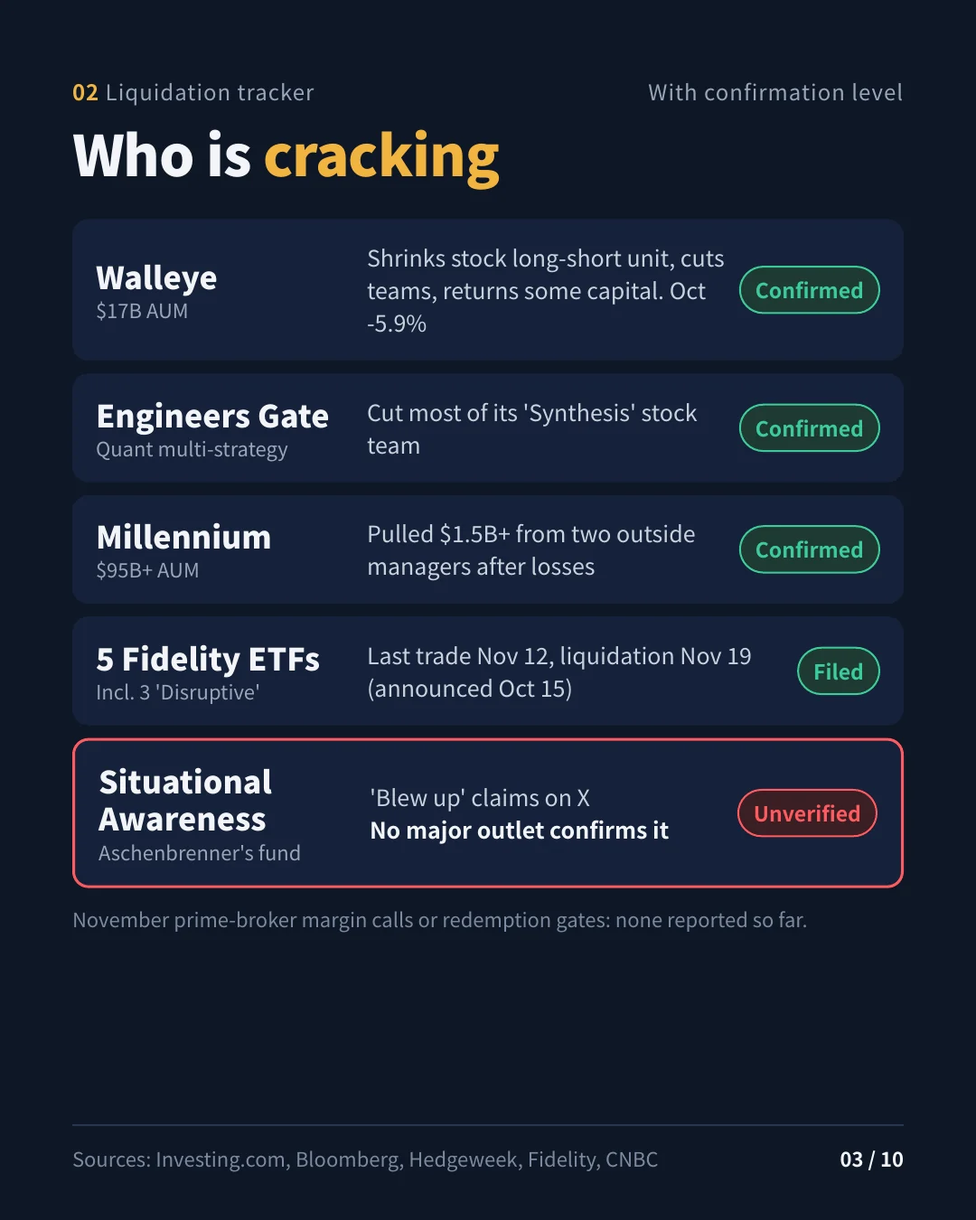
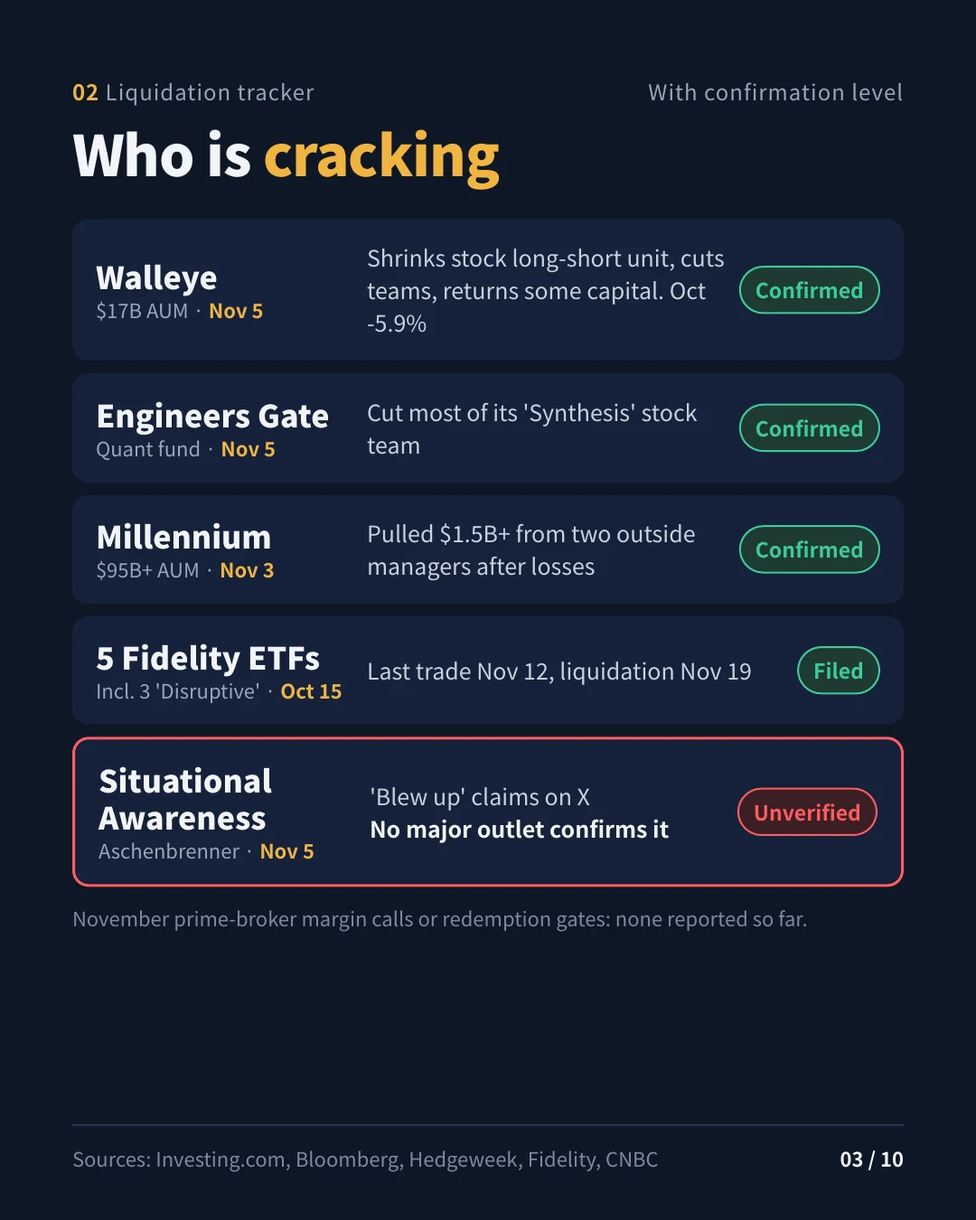
fix(research): show report dates on the liquidation-tracker card
Claude-Session: https://claude.ai/code/session_01Pv4bTrn58GB7PrtnbgnEHj

diff --git a/_source/page.html b/_source/page.html
@@ -1095,6 +1095,7 @@ const SOFTWARE=[{id:'mocapture',no:1,status:'live',maker:{ko:'무광소프트',e
  links:{virustotal:'https://www.virustotal.com/gui/file/f5212e4a6807eacafa44dd914d573b464fb4ffa0d162f67f372c214387ecc56d',changelog:'https://mugwangsoft.com/changelog/',privacy:'https://mugwangsoft.com/privacy/',enterprise:'https://mugwangsoft.com/enterprise/',feedback:'https://mugwangsoft.com/feedback/',contact:'hello@mugwangsoft.com'},
  media:'https://mugwangsoft.com/media/',shots:['tray','masking','editor','window','scroll','textcopy'],built_with:'Claude'}];
 const CHANGELOG=[
+ {"d":"2026-11-06","h":"HEAD","m":{"en":"AI Deleveraging Check: the liquidation-tracker card now shows the date of each report (Korean and English)","ko":"AI 디레버리징 점검: 청산 트래커 카드에 건별 보도 날짜 표기(한국어·영어)","es":"Revisión del desapalancamiento de la IA: la tarjeta de liquidaciones ahora muestra la fecha de cada noticia (coreano e inglés)","ja":"AIデレバレッジ点検:清算トラッカーのカードに各報道の日付を表示(韓国語・英語)"}},
  {"d":"2026-11-06","h":"34de9da","m":{"en":"Data truth on TODAY: every number shows its as-of date (US close, report day, daily estimate), LIVE turns into DELAYED when newer market data exists, and VIX now comes from the fresher of the two bot runs instead of the older crisis report; the Buffett x VIX check now refreshes after every US close","ko":"TODAY 데이터 정합성: 모든 숫자에 기준일(미국 종가·보고일·일별 추정) 표시, 더 새 시장 데이터가 있으면 LIVE 대신 '지연' 표시, VIX는 오래된 위기 보고가 아니라 두 봇 중 더 최신 값을 사용, 버핏지수×VIX는 미국 장 마감마다 갱신","es":"Datos fieles en HOY: cada cifra muestra su fecha (cierre de EE. UU., día del informe, estimación diaria), EN VIVO pasa a RETRASO cuando existen datos más nuevos, y el VIX ahora sale de la ejecución más reciente de los dos bots en vez del informe de crisis más antiguo; Buffett x VIX se actualiza tras cada cierre de EE. UU.","ja":"TODAYのデータ整合性:すべての数字に基準日(米国終値・レポート日・日次推定)を表示、より新しい市場データがあればLIVEの代わりに「遅延」、VIXは古い危機レポートではなく2つのボットのうち新しい方を使用、バフェット指数×VIXは米国の取引終了ごとに更新"}},
  {"d":"2026-11-06","h":"649b28d","m":{"en":"Faster first screen: the last live data you saw shows instantly on your next visit while fresh data loads behind it, TODAY shows loading shimmers instead of sample numbers, the hidden developer view no longer rebuilds on every update, page sizing reads all pages in one pass, deep-page feeds load when the browser is idle, and fonts stop blocking the first paint","ko":"첫 화면 속도 개선: 다시 방문하면 마지막으로 본 실시간 데이터가 즉시 뜨고 새 데이터는 뒤에서 교체, TODAY는 예시 숫자 대신 로딩 표시, 숨어 있는 개발자 화면은 업데이트마다 다시 그리지 않음, 페이지 크기 계산을 한 번에, 안쪽 페이지 데이터는 여유 있을 때 로딩, 글꼴이 첫 화면을 막지 않음","es":"Primera pantalla más rápida: en tu próxima visita los últimos datos en vivo aparecen al instante mientras los nuevos cargan detrás, HOY muestra indicadores de carga en vez de cifras de muestra, la vista de desarrollador oculta ya no se reconstruye con cada actualización, el tamaño de las páginas se calcula en una sola pasada, los datos de páginas profundas cargan cuando el navegador está libre y las fuentes ya no bloquean el primer pintado","ja":"最初の画面を高速化:再訪時は最後に見たライブデータが即表示され、新しいデータは裏で差し替え。TODAYはサンプル値の代わりに読み込み表示、隠れた開発者画面は更新のたびに再描画しない、ページサイズ計算を一度に、奥のページのデータは余裕のある時に読み込み、フォントが最初の描画を妨げない"}},
  {"d":"2026-11-06","h":"71761d1","m":{"en":"New research: AI Deleveraging Check (chips -12.25% on Nov 5) with a liquidation tracker, leveraged-ETF mechanics, Anthropic S-1 breakdown and 10 cards in Korean and English; every credit across the site is now just stayhungryasi.com","ko":"새 리서치: AI 디레버리징 점검(11/5 반도체 -12.25%). 청산 트래커, 레버리지 ETF 매도 구조, 앤트로픽 S-1 손익 분해, 카드뉴스 한국어·영어 10장. 사이트 전체 출처 표기를 stayhungryasi.com 하나로 통일","es":"Nueva investigación: revisión del desapalancamiento de la IA (chips -12.25% el 5 de noviembre) con seguimiento de liquidaciones, mecánica de ETF apalancados, desglose del S-1 de Anthropic y 10 tarjetas en coreano e inglés; todos los créditos del sitio ahora dicen solo stayhungryasi.com","ja":"新リサーチ:AIデレバレッジ点検(11/5半導体-12.25%)。清算トラッカー、レバレッジETFの売りの仕組み、アンソロピックS-1の損益分解、韓国語・英語のカード10枚。サイト全体のクレジット表記をstayhungryasi.comに統一"}},

diff --git a/_source/template.html b/_source/template.html
@@ -1095,6 +1095,7 @@ const SOFTWARE=[{id:'mocapture',no:1,status:'live',maker:{ko:'무광소프트',e
  links:{virustotal:'https://www.virustotal.com/gui/file/f5212e4a6807eacafa44dd914d573b464fb4ffa0d162f67f372c214387ecc56d',changelog:'https://mugwangsoft.com/changelog/',privacy:'https://mugwangsoft.com/privacy/',enterprise:'https://mugwangsoft.com/enterprise/',feedback:'https://mugwangsoft.com/feedback/',contact:'hello@mugwangsoft.com'},
  media:'https://mugwangsoft.com/media/',shots:['tray','masking','editor','window','scroll','textcopy'],built_with:'Claude'}];
 const CHANGELOG=[
+ {"d":"2026-11-06","h":"HEAD","m":{"en":"AI Deleveraging Check: the liquidation-tracker card now shows the date of each report (Korean and English)","ko":"AI 디레버리징 점검: 청산 트래커 카드에 건별 보도 날짜 표기(한국어·영어)","es":"Revisión del desapalancamiento de la IA: la tarjeta de liquidaciones ahora muestra la fecha de cada noticia (coreano e inglés)","ja":"AIデレバレッジ点検:清算トラッカーのカードに各報道の日付を表示(韓国語・英語)"}},
  {"d":"2026-11-06","h":"34de9da","m":{"en":"Data truth on TODAY: every number shows its as-of date (US close, report day, daily estimate), LIVE turns into DELAYED when newer market data exists, and VIX now comes from the fresher of the two bot runs instead of the older crisis report; the Buffett x VIX check now refreshes after every US close","ko":"TODAY 데이터 정합성: 모든 숫자에 기준일(미국 종가·보고일·일별 추정) 표시, 더 새 시장 데이터가 있으면 LIVE 대신 '지연' 표시, VIX는 오래된 위기 보고가 아니라 두 봇 중 더 최신 값을 사용, 버핏지수×VIX는 미국 장 마감마다 갱신","es":"Datos fieles en HOY: cada cifra muestra su fecha (cierre de EE. UU., día del informe, estimación diaria), EN VIVO pasa a RETRASO cuando existen datos más nuevos, y el VIX ahora sale de la ejecución más reciente de los dos bots en vez del informe de crisis más antiguo; Buffett x VIX se actualiza tras cada cierre de EE. UU.","ja":"TODAYのデータ整合性:すべての数字に基準日(米国終値・レポート日・日次推定)を表示、より新しい市場データがあればLIVEの代わりに「遅延」、VIXは古い危機レポートではなく2つのボットのうち新しい方を使用、バフェット指数×VIXは米国の取引終了ごとに更新"}},
  {"d":"2026-11-06","h":"649b28d","m":{"en":"Faster first screen: the last live data you saw shows instantly on your next visit while fresh data loads behind it, TODAY shows loading shimmers instead of sample numbers, the hidden developer view no longer rebuilds on every update, page sizing reads all pages in one pass, deep-page feeds load when the browser is idle, and fonts stop blocking the first paint","ko":"첫 화면 속도 개선: 다시 방문하면 마지막으로 본 실시간 데이터가 즉시 뜨고 새 데이터는 뒤에서 교체, TODAY는 예시 숫자 대신 로딩 표시, 숨어 있는 개발자 화면은 업데이트마다 다시 그리지 않음, 페이지 크기 계산을 한 번에, 안쪽 페이지 데이터는 여유 있을 때 로딩, 글꼴이 첫 화면을 막지 않음","es":"Primera pantalla más rápida: en tu próxima visita los últimos datos en vivo aparecen al instante mientras los nuevos cargan detrás, HOY muestra indicadores de carga en vez de cifras de muestra, la vista de desarrollador oculta ya no se reconstruye con cada actualización, el tamaño de las páginas se calcula en una sola pasada, los datos de páginas profundas cargan cuando el navegador está libre y las fuentes ya no bloquean el primer pintado","ja":"最初の画面を高速化:再訪時は最後に見たライブデータが即表示され、新しいデータは裏で差し替え。TODAYはサンプル値の代わりに読み込み表示、隠れた開発者画面は更新のたびに再描画しない、ページサイズ計算を一度に、奥のページのデータは余裕のある時に読み込み、フォントが最初の描画を妨げない"}},
  {"d":"2026-11-06","h":"71761d1","m":{"en":"New research: AI Deleveraging Check (chips -12.25% on Nov 5) with a liquidation tracker, leveraged-ETF mechanics, Anthropic S-1 breakdown and 10 cards in Korean and English; every credit across the site is now just stayhungryasi.com","ko":"새 리서치: AI 디레버리징 점검(11/5 반도체 -12.25%). 청산 트래커, 레버리지 ETF 매도 구조, 앤트로픽 S-1 손익 분해, 카드뉴스 한국어·영어 10장. 사이트 전체 출처 표기를 stayhungryasi.com 하나로 통일","es":"Nueva investigación: revisión del desapalancamiento de la IA (chips -12.25% el 5 de noviembre) con seguimiento de liquidaciones, mecánica de ETF apalancados, desglose del S-1 de Anthropic y 10 tarjetas en coreano e inglés; todos los créditos del sitio ahora dicen solo stayhungryasi.com","ja":"新リサーチ:AIデレバレッジ点検(11/5半導体-12.25%)。清算トラッカー、レバレッジETFの売りの仕組み、アンソロピックS-1の損益分解、韓国語・英語のカード10枚。サイト全体のクレジット表記をstayhungryasi.comに統一"}},

diff --git a/en/index.html b/en/index.html
@@ -1117,6 +1117,7 @@ const SOFTWARE=[{id:'mocapture',no:1,status:'live',maker:{ko:'무광소프트',e
  links:{virustotal:'https://www.virustotal.com/gui/file/f5212e4a6807eacafa44dd914d573b464fb4ffa0d162f67f372c214387ecc56d',changelog:'https://mugwangsoft.com/changelog/',privacy:'https://mugwangsoft.com/privacy/',enterprise:'https://mugwangsoft.com/enterprise/',feedback:'https://mugwangsoft.com/feedback/',contact:'hello@mugwangsoft.com'},
  media:'https://mugwangsoft.com/media/',shots:['tray','masking','editor','window','scroll','textcopy'],built_with:'Claude'}];
 const CHANGELOG=[
+ {"d":"2026-11-06","h":"HEAD","m":{"en":"AI Deleveraging Check: the liquidation-tracker card now shows the date of each report (Korean and English)","ko":"AI 디레버리징 점검: 청산 트래커 카드에 건별 보도 날짜 표기(한국어·영어)","es":"Revisión del desapalancamiento de la IA: la tarjeta de liquidaciones ahora muestra la fecha de cada noticia (coreano e inglés)","ja":"AIデレバレッジ点検:清算トラッカーのカードに各報道の日付を表示(韓国語・英語)"}},
  {"d":"2026-11-06","h":"34de9da","m":{"en":"Data truth on TODAY: every number shows its as-of date (US close, report day, daily estimate), LIVE turns into DELAYED when newer market data exists, and VIX now comes from the fresher of the two bot runs instead of the older crisis report; the Buffett x VIX check now refreshes after every US close","ko":"TODAY 데이터 정합성: 모든 숫자에 기준일(미국 종가·보고일·일별 추정) 표시, 더 새 시장 데이터가 있으면 LIVE 대신 '지연' 표시, VIX는 오래된 위기 보고가 아니라 두 봇 중 더 최신 값을 사용, 버핏지수×VIX는 미국 장 마감마다 갱신","es":"Datos fieles en HOY: cada cifra muestra su fecha (cierre de EE. UU., día del informe, estimación diaria), EN VIVO pasa a RETRASO cuando existen datos más nuevos, y el VIX ahora sale de la ejecución más reciente de los dos bots en vez del informe de crisis más antiguo; Buffett x VIX se actualiza tras cada cierre de EE. UU.","ja":"TODAYのデータ整合性:すべての数字に基準日(米国終値・レポート日・日次推定)を表示、より新しい市場データがあればLIVEの代わりに「遅延」、VIXは古い危機レポートではなく2つのボットのうち新しい方を使用、バフェット指数×VIXは米国の取引終了ごとに更新"}},
  {"d":"2026-11-06","h":"649b28d","m":{"en":"Faster first screen: the last live data you saw shows instantly on your next visit while fresh data loads behind it, TODAY shows loading shimmers instead of sample numbers, the hidden developer view no longer rebuilds on every update, page sizing reads all pages in one pass, deep-page feeds load when the browser is idle, and fonts stop blocking the first paint","ko":"첫 화면 속도 개선: 다시 방문하면 마지막으로 본 실시간 데이터가 즉시 뜨고 새 데이터는 뒤에서 교체, TODAY는 예시 숫자 대신 로딩 표시, 숨어 있는 개발자 화면은 업데이트마다 다시 그리지 않음, 페이지 크기 계산을 한 번에, 안쪽 페이지 데이터는 여유 있을 때 로딩, 글꼴이 첫 화면을 막지 않음","es":"Primera pantalla más rápida: en tu próxima visita los últimos datos en vivo aparecen al instante mientras los nuevos cargan detrás, HOY muestra indicadores de carga en vez de cifras de muestra, la vista de desarrollador oculta ya no se reconstruye con cada actualización, el tamaño de las páginas se calcula en una sola pasada, los datos de páginas profundas cargan cuando el navegador está libre y las fuentes ya no bloquean el primer pintado","ja":"最初の画面を高速化:再訪時は最後に見たライブデータが即表示され、新しいデータは裏で差し替え。TODAYはサンプル値の代わりに読み込み表示、隠れた開発者画面は更新のたびに再描画しない、ページサイズ計算を一度に、奥のページのデータは余裕のある時に読み込み、フォントが最初の描画を妨げない"}},
  {"d":"2026-11-06","h":"71761d1","m":{"en":"New research: AI Deleveraging Check (chips -12.25% on Nov 5) with a liquidation tracker, leveraged-ETF mechanics, Anthropic S-1 breakdown and 10 cards in Korean and English; every credit across the site is now just stayhungryasi.com","ko":"새 리서치: AI 디레버리징 점검(11/5 반도체 -12.25%). 청산 트래커, 레버리지 ETF 매도 구조, 앤트로픽 S-1 손익 분해, 카드뉴스 한국어·영어 10장. 사이트 전체 출처 표기를 stayhungryasi.com 하나로 통일","es":"Nueva investigación: revisión del desapalancamiento de la IA (chips -12.25% el 5 de noviembre) con seguimiento de liquidaciones, mecánica de ETF apalancados, desglose del S-1 de Anthropic y 10 tarjetas en coreano e inglés; todos los créditos del sitio ahora dicen solo stayhungryasi.com","ja":"新リサーチ:AIデレバレッジ点検(11/5半導体-12.25%)。清算トラッカー、レバレッジETFの売りの仕組み、アンソロピックS-1の損益分解、韓国語・英語のカード10枚。サイト全体のクレジット表記をstayhungryasi.comに統一"}},

diff --git a/es/index.html b/es/index.html
@@ -1117,6 +1117,7 @@ const SOFTWARE=[{id:'mocapture',no:1,status:'live',maker:{ko:'무광소프트',e
  links:{virustotal:'https://www.virustotal.com/gui/file/f5212e4a6807eacafa44dd914d573b464fb4ffa0d162f67f372c214387ecc56d',changelog:'https://mugwangsoft.com/changelog/',privacy:'https://mugwangsoft.com/privacy/',enterprise:'https://mugwangsoft.com/enterprise/',feedback:'https://mugwangsoft.com/feedback/',contact:'hello@mugwangsoft.com'},
  media:'https://mugwangsoft.com/media/',shots:['tray','masking','editor','window','scroll','textcopy'],built_with:'Claude'}];
 const CHANGELOG=[
+ {"d":"2026-11-06","h":"HEAD","m":{"en":"AI Deleveraging Check: the liquidation-tracker card now shows the date of each report (Korean and English)","ko":"AI 디레버리징 점검: 청산 트래커 카드에 건별 보도 날짜 표기(한국어·영어)","es":"Revisión del desapalancamiento de la IA: la tarjeta de liquidaciones ahora muestra la fecha de cada noticia (coreano e inglés)","ja":"AIデレバレッジ点検:清算トラッカーのカードに各報道の日付を表示(韓国語・英語)"}},
  {"d":"2026-11-06","h":"34de9da","m":{"en":"Data truth on TODAY: every number shows its as-of date (US close, report day, daily estimate), LIVE turns into DELAYED when newer market data exists, and VIX now comes from the fresher of the two bot runs instead of the older crisis report; the Buffett x VIX check now refreshes after every US close","ko":"TODAY 데이터 정합성: 모든 숫자에 기준일(미국 종가·보고일·일별 추정) 표시, 더 새 시장 데이터가 있으면 LIVE 대신 '지연' 표시, VIX는 오래된 위기 보고가 아니라 두 봇 중 더 최신 값을 사용, 버핏지수×VIX는 미국 장 마감마다 갱신","es":"Datos fieles en HOY: cada cifra muestra su fecha (cierre de EE. UU., día del informe, estimación diaria), EN VIVO pasa a RETRASO cuando existen datos más nuevos, y el VIX ahora sale de la ejecución más reciente de los dos bots en vez del informe de crisis más antiguo; Buffett x VIX se actualiza tras cada cierre de EE. UU.","ja":"TODAYのデータ整合性:すべての数字に基準日(米国終値・レポート日・日次推定)を表示、より新しい市場データがあればLIVEの代わりに「遅延」、VIXは古い危機レポートではなく2つのボットのうち新しい方を使用、バフェット指数×VIXは米国の取引終了ごとに更新"}},
  {"d":"2026-11-06","h":"649b28d","m":{"en":"Faster first screen: the last live data you saw shows instantly on your next visit while fresh data loads behind it, TODAY shows loading shimmers instead of sample numbers, the hidden developer view no longer rebuilds on every update, page sizing reads all pages in one pass, deep-page feeds load when the browser is idle, and fonts stop blocking the first paint","ko":"첫 화면 속도 개선: 다시 방문하면 마지막으로 본 실시간 데이터가 즉시 뜨고 새 데이터는 뒤에서 교체, TODAY는 예시 숫자 대신 로딩 표시, 숨어 있는 개발자 화면은 업데이트마다 다시 그리지 않음, 페이지 크기 계산을 한 번에, 안쪽 페이지 데이터는 여유 있을 때 로딩, 글꼴이 첫 화면을 막지 않음","es":"Primera pantalla más rápida: en tu próxima visita los últimos datos en vivo aparecen al instante mientras los nuevos cargan detrás, HOY muestra indicadores de carga en vez de cifras de muestra, la vista de desarrollador oculta ya no se reconstruye con cada actualización, el tamaño de las páginas se calcula en una sola pasada, los datos de páginas profundas cargan cuando el navegador está libre y las fuentes ya no bloquean el primer pintado","ja":"最初の画面を高速化:再訪時は最後に見たライブデータが即表示され、新しいデータは裏で差し替え。TODAYはサンプル値の代わりに読み込み表示、隠れた開発者画面は更新のたびに再描画しない、ページサイズ計算を一度に、奥のページのデータは余裕のある時に読み込み、フォントが最初の描画を妨げない"}},
  {"d":"2026-11-06","h":"71761d1","m":{"en":"New research: AI Deleveraging Check (chips -12.25% on Nov 5) with a liquidation tracker, leveraged-ETF mechanics, Anthropic S-1 breakdown and 10 cards in Korean and English; every credit across the site is now just stayhungryasi.com","ko":"새 리서치: AI 디레버리징 점검(11/5 반도체 -12.25%). 청산 트래커, 레버리지 ETF 매도 구조, 앤트로픽 S-1 손익 분해, 카드뉴스 한국어·영어 10장. 사이트 전체 출처 표기를 stayhungryasi.com 하나로 통일","es":"Nueva investigación: revisión del desapalancamiento de la IA (chips -12.25% el 5 de noviembre) con seguimiento de liquidaciones, mecánica de ETF apalancados, desglose del S-1 de Anthropic y 10 tarjetas en coreano e inglés; todos los créditos del sitio ahora dicen solo stayhungryasi.com","ja":"新リサーチ:AIデレバレッジ点検(11/5半導体-12.25%)。清算トラッカー、レバレッジETFの売りの仕組み、アンソロピックS-1の損益分解、韓国語・英語のカード10枚。サイト全体のクレジット表記をstayhungryasi.comに統一"}},

diff --git a/ja/index.html b/ja/index.html
@@ -1117,6 +1117,7 @@ const SOFTWARE=[{id:'mocapture',no:1,status:'live',maker:{ko:'무광소프트',e
  links:{virustotal:'https://www.virustotal.com/gui/file/f5212e4a6807eacafa44dd914d573b464fb4ffa0d162f67f372c214387ecc56d',changelog:'https://mugwangsoft.com/changelog/',privacy:'https://mugwangsoft.com/privacy/',enterprise:'https://mugwangsoft.com/enterprise/',feedback:'https://mugwangsoft.com/feedback/',contact:'hello@mugwangsoft.com'},
  media:'https://mugwangsoft.com/media/',shots:['tray','masking','editor','window','scroll','textcopy'],built_with:'Claude'}];
 const CHANGELOG=[
+ {"d":"2026-11-06","h":"HEAD","m":{"en":"AI Deleveraging Check: the liquidation-tracker card now shows the date of each report (Korean and English)","ko":"AI 디레버리징 점검: 청산 트래커 카드에 건별 보도 날짜 표기(한국어·영어)","es":"Revisión del desapalancamiento de la IA: la tarjeta de liquidaciones ahora muestra la fecha de cada noticia (coreano e inglés)","ja":"AIデレバレッジ点検:清算トラッカーのカードに各報道の日付を表示(韓国語・英語)"}},
  {"d":"2026-11-06","h":"34de9da","m":{"en":"Data truth on TODAY: every number shows its as-of date (US close, report day, daily estimate), LIVE turns into DELAYED when newer market data exists, and VIX now comes from the fresher of the two bot runs instead of the older crisis report; the Buffett x VIX check now refreshes after every US close","ko":"TODAY 데이터 정합성: 모든 숫자에 기준일(미국 종가·보고일·일별 추정) 표시, 더 새 시장 데이터가 있으면 LIVE 대신 '지연' 표시, VIX는 오래된 위기 보고가 아니라 두 봇 중 더 최신 값을 사용, 버핏지수×VIX는 미국 장 마감마다 갱신","es":"Datos fieles en HOY: cada cifra muestra su fecha (cierre de EE. UU., día del informe, estimación diaria), EN VIVO pasa a RETRASO cuando existen datos más nuevos, y el VIX ahora sale de la ejecución más reciente de los dos bots en vez del informe de crisis más antiguo; Buffett x VIX se actualiza tras cada cierre de EE. UU.","ja":"TODAYのデータ整合性:すべての数字に基準日(米国終値・レポート日・日次推定)を表示、より新しい市場データがあればLIVEの代わりに「遅延」、VIXは古い危機レポートではなく2つのボットのうち新しい方を使用、バフェット指数×VIXは米国の取引終了ごとに更新"}},
  {"d":"2026-11-06","h":"649b28d","m":{"en":"Faster first screen: the last live data you saw shows instantly on your next visit while fresh data loads behind it, TODAY shows loading shimmers instead of sample numbers, the hidden developer view no longer rebuilds on every update, page sizing reads all pages in one pass, deep-page feeds load when the browser is idle, and fonts stop blocking the first paint","ko":"첫 화면 속도 개선: 다시 방문하면 마지막으로 본 실시간 데이터가 즉시 뜨고 새 데이터는 뒤에서 교체, TODAY는 예시 숫자 대신 로딩 표시, 숨어 있는 개발자 화면은 업데이트마다 다시 그리지 않음, 페이지 크기 계산을 한 번에, 안쪽 페이지 데이터는 여유 있을 때 로딩, 글꼴이 첫 화면을 막지 않음","es":"Primera pantalla más rápida: en tu próxima visita los últimos datos en vivo aparecen al instante mientras los nuevos cargan detrás, HOY muestra indicadores de carga en vez de cifras de muestra, la vista de desarrollador oculta ya no se reconstruye con cada actualización, el tamaño de las páginas se calcula en una sola pasada, los datos de páginas profundas cargan cuando el navegador está libre y las fuentes ya no bloquean el primer pintado","ja":"最初の画面を高速化:再訪時は最後に見たライブデータが即表示され、新しいデータは裏で差し替え。TODAYはサンプル値の代わりに読み込み表示、隠れた開発者画面は更新のたびに再描画しない、ページサイズ計算を一度に、奥のページのデータは余裕のある時に読み込み、フォントが最初の描画を妨げない"}},
  {"d":"2026-11-06","h":"71761d1","m":{"en":"New research: AI Deleveraging Check (chips -12.25% on Nov 5) with a liquidation tracker, leveraged-ETF mechanics, Anthropic S-1 breakdown and 10 cards in Korean and English; every credit across the site is now just stayhungryasi.com","ko":"새 리서치: AI 디레버리징 점검(11/5 반도체 -12.25%). 청산 트래커, 레버리지 ETF 매도 구조, 앤트로픽 S-1 손익 분해, 카드뉴스 한국어·영어 10장. 사이트 전체 출처 표기를 stayhungryasi.com 하나로 통일","es":"Nueva investigación: revisión del desapalancamiento de la IA (chips -12.25% el 5 de noviembre) con seguimiento de liquidaciones, mecánica de ETF apalancados, desglose del S-1 de Anthropic y 10 tarjetas en coreano e inglés; todos los créditos del sitio ahora dicen solo stayhungryasi.com","ja":"新リサーチ:AIデレバレッジ点検(11/5半導体-12.25%)。清算トラッカー、レバレッジETFの売りの仕組み、アンソロピックS-1の損益分解、韓国語・英語のカード10枚。サイト全体のクレジット表記をstayhungryasi.comに統一"}},

diff --git a/ko/index.html b/ko/index.html
@@ -1117,6 +1117,7 @@ const SOFTWARE=[{id:'mocapture',no:1,status:'live',maker:{ko:'무광소프트',e
  links:{virustotal:'https://www.virustotal.com/gui/file/f5212e4a6807eacafa44dd914d573b464fb4ffa0d162f67f372c214387ecc56d',changelog:'https://mugwangsoft.com/changelog/',privacy:'https://mugwangsoft.com/privacy/',enterprise:'https://mugwangsoft.com/enterprise/',feedback:'https://mugwangsoft.com/feedback/',contact:'hello@mugwangsoft.com'},
  media:'https://mugwangsoft.com/media/',shots:['tray','masking','editor','window','scroll','textcopy'],built_with:'Claude'}];
 const CHANGELOG=[
+ {"d":"2026-11-06","h":"HEAD","m":{"en":"AI Deleveraging Check: the liquidation-tracker card now shows the date of each report (Korean and English)","ko":"AI 디레버리징 점검: 청산 트래커 카드에 건별 보도 날짜 표기(한국어·영어)","es":"Revisión del desapalancamiento de la IA: la tarjeta de liquidaciones ahora muestra la fecha de cada noticia (coreano e inglés)","ja":"AIデレバレッジ点検:清算トラッカーのカードに各報道の日付を表示(韓国語・英語)"}},
  {"d":"2026-11-06","h":"34de9da","m":{"en":"Data truth on TODAY: every number shows its as-of date (US close, report day, daily estimate), LIVE turns into DELAYED when newer market data exists, and VIX now comes from the fresher of the two bot runs instead of the older crisis report; the Buffett x VIX check now refreshes after every US close","ko":"TODAY 데이터 정합성: 모든 숫자에 기준일(미국 종가·보고일·일별 추정) 표시, 더 새 시장 데이터가 있으면 LIVE 대신 '지연' 표시, VIX는 오래된 위기 보고가 아니라 두 봇 중 더 최신 값을 사용, 버핏지수×VIX는 미국 장 마감마다 갱신","es":"Datos fieles en HOY: cada cifra muestra su fecha (cierre de EE. UU., día del informe, estimación diaria), EN VIVO pasa a RETRASO cuando existen datos más nuevos, y el VIX ahora sale de la ejecución más reciente de los dos bots en vez del informe de crisis más antiguo; Buffett x VIX se actualiza tras cada cierre de EE. UU.","ja":"TODAYのデータ整合性:すべての数字に基準日(米国終値・レポート日・日次推定)を表示、より新しい市場データがあればLIVEの代わりに「遅延」、VIXは古い危機レポートではなく2つのボットのうち新しい方を使用、バフェット指数×VIXは米国の取引終了ごとに更新"}},
  {"d":"2026-11-06","h":"649b28d","m":{"en":"Faster first screen: the last live data you saw shows instantly on your next visit while fresh data loads behind it, TODAY shows loading shimmers instead of sample numbers, the hidden developer view no longer rebuilds on every update, page sizing reads all pages in one pass, deep-page feeds load when the browser is idle, and fonts stop blocking the first paint","ko":"첫 화면 속도 개선: 다시 방문하면 마지막으로 본 실시간 데이터가 즉시 뜨고 새 데이터는 뒤에서 교체, TODAY는 예시 숫자 대신 로딩 표시, 숨어 있는 개발자 화면은 업데이트마다 다시 그리지 않음, 페이지 크기 계산을 한 번에, 안쪽 페이지 데이터는 여유 있을 때 로딩, 글꼴이 첫 화면을 막지 않음","es":"Primera pantalla más rápida: en tu próxima visita los últimos datos en vivo aparecen al instante mientras los nuevos cargan detrás, HOY muestra indicadores de carga en vez de cifras de muestra, la vista de desarrollador oculta ya no se reconstruye con cada actualización, el tamaño de las páginas se calcula en una sola pasada, los datos de páginas profundas cargan cuando el navegador está libre y las fuentes ya no bloquean el primer pintado","ja":"最初の画面を高速化:再訪時は最後に見たライブデータが即表示され、新しいデータは裏で差し替え。TODAYはサンプル値の代わりに読み込み表示、隠れた開発者画面は更新のたびに再描画しない、ページサイズ計算を一度に、奥のページのデータは余裕のある時に読み込み、フォントが最初の描画を妨げない"}},
  {"d":"2026-11-06","h":"71761d1","m":{"en":"New research: AI Deleveraging Check (chips -12.25% on Nov 5) with a liquidation tracker, leveraged-ETF mechanics, Anthropic S-1 breakdown and 10 cards in Korean and English; every credit across the site is now just stayhungryasi.com","ko":"새 리서치: AI 디레버리징 점검(11/5 반도체 -12.25%). 청산 트래커, 레버리지 ETF 매도 구조, 앤트로픽 S-1 손익 분해, 카드뉴스 한국어·영어 10장. 사이트 전체 출처 표기를 stayhungryasi.com 하나로 통일","es":"Nueva investigación: revisión del desapalancamiento de la IA (chips -12.25% el 5 de noviembre) con seguimiento de liquidaciones, mecánica de ETF apalancados, desglose del S-1 de Anthropic y 10 tarjetas en coreano e inglés; todos los créditos del sitio ahora dicen solo stayhungryasi.com","ja":"新リサーチ:AIデレバレッジ点検(11/5半導体-12.25%)。清算トラッカー、レバレッジETFの売りの仕組み、アンソロピックS-1の損益分解、韓国語・英語のカード10枚。サイト全体のクレジット表記をstayhungryasi.comに統一"}},
